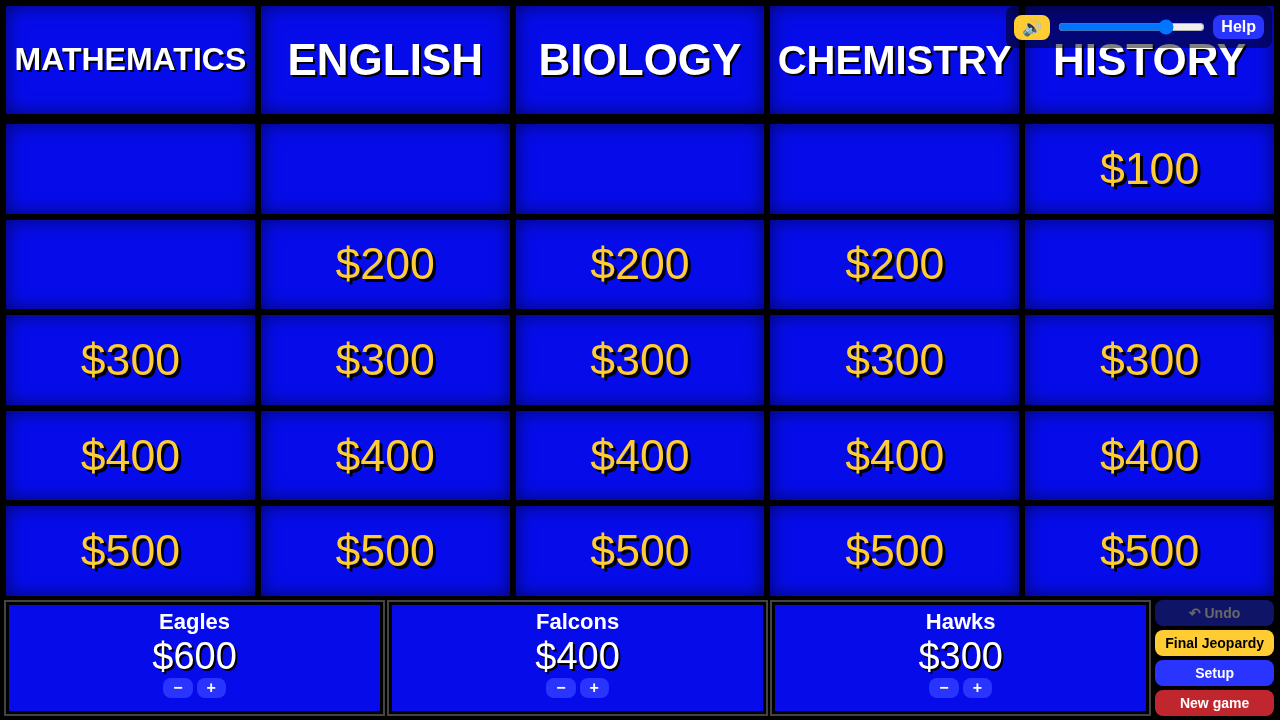
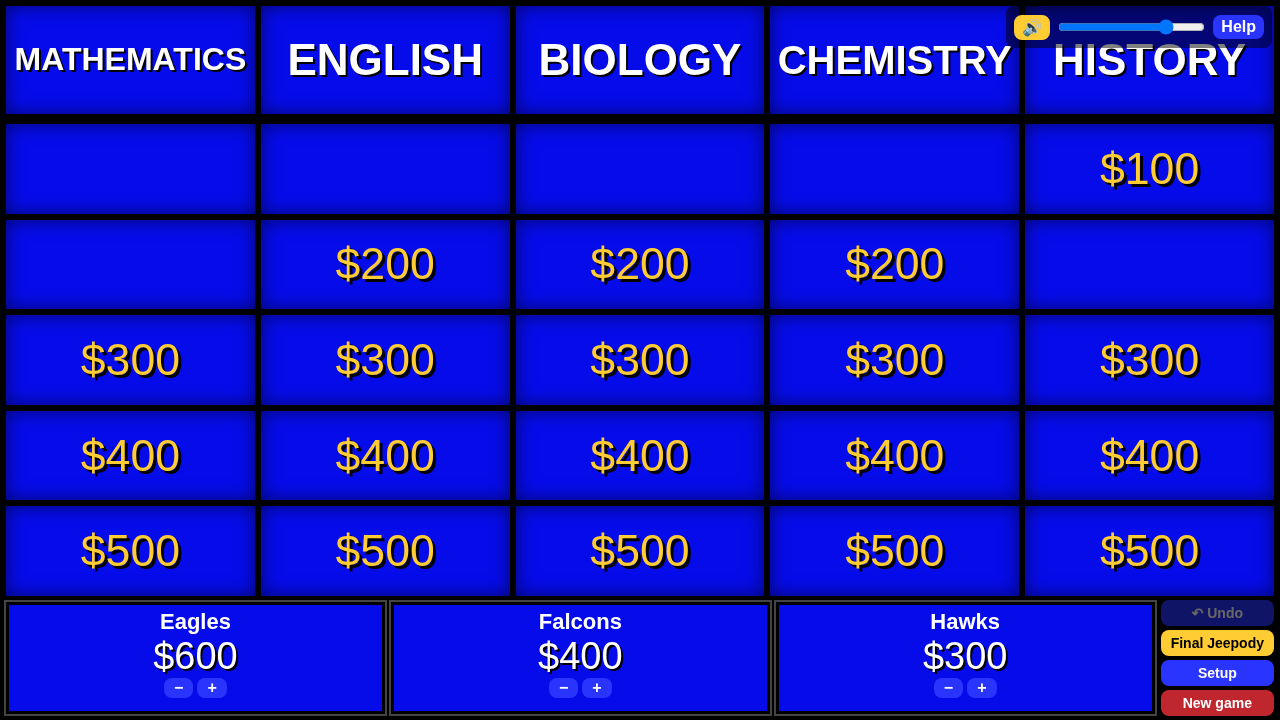
Rename game display text to Jeepody (paths unchanged); refresh screenshots

diff --git a/games/jeopardy/jeopardy-app.html b/games/jeopardy/jeopardy-app.html
@@ -1,6 +1,6 @@
 <!DOCTYPE html>
 <html lang="en"><head><meta charset="utf-8"><meta name="viewport" content="width=device-width,initial-scale=1">
-<title>Jeopardy! Classroom Game</title>
+<title>Jeepody! Classroom Game</title>
 <style>
 :root{--blue:#060CE9;--navy:#020770;--gold:#FFCC33;--clue:Korinna,"ITC Korinna","Georgia","Times New Roman",serif;--head:"Swiss 911","Arial Black","Helvetica Neue",Arial,sans-serif;--money:Impact,"Haettenschweiler","Arial Narrow Bold","Arial Black",sans-serif}
 *{box-sizing:border-box}html,body{margin:0;height:100%;background:#000;color:#fff;font-family:var(--head);overflow:hidden}
@@ -69,7 +69,7 @@ code{font-family:"Courier New",Menlo,Consolas,monospace;font-weight:bold;text-tr
 
 <!-- SETUP -->
 <div id="setup" class="screen">
- <h1>JEOPARDY! <span style="font-size:24px;color:#fff;font-family:var(--head)">classroom game setup</span></h1>
+ <h1>JEEPODY! <span style="font-size:24px;color:#fff;font-family:var(--head)">classroom game setup</span></h1>
  <div class="panel"><h2>1. Teams</h2>
   <div class="row" style="margin-bottom:10px"><button id="addTeam">+ Add team</button><span style="font-family:Arial;font-size:16px">Type a name and press Enter to add a student. Drag a name to another team, or use its dropdown.</span></div>
   <div id="teams"></div>
@@ -107,21 +107,21 @@ code{font-family:"Courier New",Menlo,Consolas,monospace;font-weight:bold;text-tr
 
 <!-- FINAL -->
 <div id="finOv" class="ov">
- <div class="ovtop"><span>FINAL JEOPARDY!</span><span id="timer"></span></div>
+ <div class="ovtop"><span>FINAL JEEPODY!</span><span id="timer"></span></div>
  <div class="cluebox"><div id="finText" class="fit"></div></div>
  <div id="finCtrl"></div>
 </div>
 
 <!-- HELP -->
 <div id="help" class="ov" style="bottom:0;z-index:60;background:rgba(0,0,0,.7)"><div class="inner">
-<h2>How to use this Jeopardy! game</h2>
+<h2>How to use this Jeepody! game</h2>
 <ol>
 <li><b>Open</b> this file in Chrome, Edge, Safari or Firefox on your Mac (double-click it). It needs no internet. In Adobe Connect, share your screen or the browser window. Press <b>F11</b> / <b>Ctrl+Cmd+F</b> for full screen.</li>
 <li><b>Teams:</b> click <i>+ Add team</i>, rename it in the box, type student names and press Enter. Drag a name to another team (or pick a team in its dropdown). ✕ removes a student; <i>Delete team</i> removes the team. Or paste a roster and click <i>Shuffle into teams</i>.</li>
 <li><b>Questions:</b> drop a CSV on the dashed box, click <i>Choose file…</i>, or click <i>Use built-in cross-curricular sample</i>. Then click <b>Start game</b>.</li>
 <li><b>Play:</b> click a dollar amount. Read the clue, click <b>Show Answer</b>, then click <b>✓</b> (adds the value) or <b>✗</b> (subtracts it) for any team. You can mark several teams (one wrong, another steals). Click <b>Back to board</b> (or press Esc); the square goes blank. <i>Nobody / Back to board</i> leaves scores alone.</li>
 <li><b>Daily Double:</b> pick the team and type its wager (up to its score, or up to the top board value if it has less). Only that team is scored.</li>
-<li><b>Final Jeopardy:</b> click <i>Final Jeopardy</i> on the right of the score bar. Reveal the category, type each team's wager, reveal the clue (30-second thinking music and timer), show the answer, tick right/wrong for each team, then <i>Apply wagers</i>.</li>
+<li><b>Final Jeepody:</b> click <i>Final Jeepody</i> on the right of the score bar. Reveal the category, type each team's wager, reveal the clue (30-second thinking music and timer), show the answer, tick right/wrong for each team, then <i>Apply wagers</i>.</li>
 <li><b>Scores:</b> +/− buttons under each team change the score by 100 (click the team name to type an exact score). Hover a team name to see its members. <b>Undo</b> reverses the last award.</li>
 <li><b>Everything is saved</b> in this browser automatically, so a refresh will not lose the game. <i>Setup</i> returns to team setup; <i>New game</i> resets scores and the board (teams stay).</li>
 <li><b>Sound:</b> 🔊 mutes, the slider sets volume. Sounds are original, not the TV show's audio.</li>
@@ -130,7 +130,7 @@ code{font-family:"Courier New",Menlo,Consolas,monospace;font-weight:bold;text-tr
 <p>First row is the header. Columns: <code>category,value,clue,answer,daily_double</code>. Only <code>category</code>, <code>clue</code> and <code>answer</code> are required. Up to 6 categories × 5 clues, in the order they first appear.</p>
 <ul><li><code>value</code> is optional: blank values become 200, 400, 600, 800, 1000 by row order within the category.</li>
 <li><code>daily_double</code>: <code>yes</code> marks a Daily Double (any number of them).</li>
-<li>Final Jeopardy: one row whose category is <code>final</code> or <code>final:Category Name</code>.</li>
+<li>Final Jeepody: one row whose category is <code>final</code> or <code>final:Category Name</code>.</li>
 <li>Put fields with commas, quotes or line breaks in double quotes; write a quote as <code>""</code>. Wrap code in backticks (<code>`df.head()`</code>) to show it in code font.</li></ul>
 <pre>category,value,clue,answer,daily_double
 Mathematics,100,"The interior angles of any triangle add up to this many degrees.","What is 180?",no
@@ -186,7 +186,7 @@ function buildGame(text){const rows=parseCSV(text);if(rows.length<2)throw Error(
  const cats=[],warn=[];let fin=null;
  rows.slice(1).forEach((r,n)=>{const cat=(r[iC]||"").trim(),clue=(r[iQ]||"").trim(),ans=(r[iA]||"").trim();
   if(!cat&&!clue)return;
-  if(/^final(\s*jeopardy)?\s*(:|$)/i.test(cat)){fin={cat:cat.split(":").slice(1).join(":").trim()||"Final Jeopardy",clue,answer:ans};return;}
+  if(/^final(\s*(jeopardy|jeepody))?\s*(:|$)/i.test(cat)){fin={cat:cat.split(":").slice(1).join(":").trim()||"Final Jeepody",clue,answer:ans};return;}
   if(!clue||!ans){warn.push("Row "+(n+2)+" skipped (missing clue or answer).");return;}
   let c=cats.find(x=>x.name===cat);if(!c){if(cats.length>=6){warn.push("Row "+(n+2)+": more than 6 categories, skipped.");return;}c={name:cat,clues:[]};cats.push(c);}
   if(c.clues.length>=5){warn.push("Row "+(n+2)+": "+cat+" already has 5 clues, skipped.");return;}
@@ -217,7 +217,7 @@ function moveMember(fromId,mi,toId){if(fromId===toId)return;const f=S.teams.find
 function setCSV(text,name){try{const g=buildGame(text);S.csvText=text;S.csvName=name;S.loaded=g;save();showCSVInfo();}catch(e){$("csvInfo").innerHTML=`<span class="err">${esc(name)}: ${esc(e.message)}</span>`;}}
 function showCSVInfo(){const g=S.loaded;if(!g){$("csvInfo").textContent="No questions loaded yet.";return;}
  const n=g.cats.reduce((a,c)=>a+c.clues.length,0),dd=g.cats.reduce((a,c)=>a+c.clues.filter(x=>x.dd).length,0);
- $("csvInfo").innerHTML=`<span class="good">✓ ${esc(S.csvName)}: ${g.cats.length} categories (${g.cats.map(c=>esc(c.name)).join(", ")}), ${n} clues, ${dd} Daily Double(s), ${g.final?"Final Jeopardy: "+esc(g.final.cat):"no Final Jeopardy"}.</span>`+(g.warn.length?`<div class="err">${g.warn.map(esc).join("<br>")}</div>`:"");}
+ $("csvInfo").innerHTML=`<span class="good">✓ ${esc(S.csvName)}: ${g.cats.length} categories (${g.cats.map(c=>esc(c.name)).join(", ")}), ${n} clues, ${dd} Daily Double(s), ${g.final?"Final Jeepody: "+esc(g.final.cat):"no Final Jeepody"}.</span>`+(g.warn.length?`<div class="err">${g.warn.map(esc).join("<br>")}</div>`:"");}
 function readFile(f){const r=new FileReader();r.onload=()=>setCSV(r.result,f.name);r.readAsText(f);}
 // ---------- game ----------
 function show(id){document.querySelectorAll(".screen").forEach(s=>s.classList.toggle("on",s.id===id));}
@@ -240,7 +240,7 @@ function renderScores(){const bar=$("scorebar");bar.innerHTML="";
   d.querySelector(".n").onclick=()=>{d.classList.toggle("open");const v=prompt("Set score for "+t.name,t.score);if(v!==null&&!isNaN(parseInt(v)))award(t.id,parseInt(v)-t.score,"manual");};
   bar.appendChild(d);});
  const tl=document.createElement("div");tl.id="tools";
- tl.innerHTML=`<button id="undoB" class="sec" ${S.history.length?"":"disabled"}>↶ Undo</button><button id="finB" ${S.game&&S.game.final&&!S.game.finalDone?"":"disabled"}>Final Jeopardy</button><button id="setupB" class="sec">Setup</button><button id="newB" class="danger">New game</button>`;
+ tl.innerHTML=`<button id="undoB" class="sec" ${S.history.length?"":"disabled"}>↶ Undo</button><button id="finB" ${S.game&&S.game.final&&!S.game.finalDone?"":"disabled"}>Final Jeepody</button><button id="setupB" class="sec">Setup</button><button id="newB" class="danger">New game</button>`;
  bar.appendChild(tl);$("undoB").onclick=undo;$("finB").onclick=()=>finalStep("cat");$("setupB").onclick=()=>{closeOv();openSetup();};$("newB").onclick=startGame;}
 function award(teamId,delta,why){const t=S.teams.find(x=>x.id==teamId);if(!t||!delta)return;t.score+=delta;S.history.push({teamId,delta,why});save();renderScores();if(why==="correct")play("correct");else if(why==="wrong")play("wrong");}
 function undo(){const h=S.history.pop();if(!h)return;const t=S.teams.find(x=>x.id==h.teamId);if(t)t.score-=h.delta;
@@ -314,7 +314,7 @@ const drop=$("drop");["dragover","dragenter"].forEach(ev=>drop.addEventListener(
 drop.addEventListener("dragleave",()=>drop.classList.remove("over"));
 drop.addEventListener("drop",e=>{e.preventDefault();drop.classList.remove("over");const f=e.dataTransfer.files[0];if(f)readFile(f);});
 window.addEventListener("dragover",e=>e.preventDefault());window.addEventListener("drop",e=>e.preventDefault());
-$("useSample").onclick=()=>setCSV(SAMPLE_CSV,"sample-jeopardy-cross-curricular.csv (built-in)");
+$("useSample").onclick=()=>setCSV(SAMPLE_CSV,"Cross-curricular sample (built-in)");
 $("dlSample").onclick=()=>{const a=document.createElement("a");a.href=URL.createObjectURL(new Blob([SAMPLE_CSV],{type:"text/csv"}));a.download="sample-jeopardy-cross-curricular.csv";document.body.appendChild(a);a.click();a.remove();};
 $("start").onclick=startGame;$("resume").onclick=()=>{openBoard(false);if(S.pending){if(S.pending.stage==="dd")showDD();else showClue();}};
 $("helpBtn").onclick=()=>$("help").classList.add("on");$("helpClose").onclick=()=>$("help").classList.remove("on");

diff --git a/games/jeopardy/README.md b/games/jeopardy/README.md
@@ -1,4 +1,4 @@
-# Jeopardy-Style Review Game
+# Jeepody: A Classroom Quiz Review Game
 
 A team quiz game for review days. You load your own questions from a simple spreadsheet file (a **CSV** file, explained below), make teams, and play. Answered squares disappear from the board, and scores update automatically.
 
@@ -57,9 +57,9 @@ When a Daily Double square comes up, pick the team that's playing it and type it
 
 ![Daily Double](screenshots/5-dailydouble.png)
 
-**Final Jeopardy**
+**Final Jeepody**
 
-1. Click **Final Jeopardy** on the right side of the score bar.
+1. Click **Final Jeepody** on the right side of the score bar.
 2. Reveal the category, then type each team's wager.
 3. Reveal the clue. A 30-second timer and thinking music play.
 4. Show the answer and mark each team right or wrong.
@@ -123,7 +123,7 @@ Example as a table:
 
 These rows come from the sample file. The Mendel row is a Daily Double.
 
-The last row is the **Final Jeopardy** clue. Type **final** in the category column, or **final:** followed by a category name (like *final:Science & History*) to show that name to students.
+The last row is the **Final Jeepody** clue. Type **final** in the category column, or **final:** followed by a category name (like *final:Science & History*) to show that name to students.
 
 ### Step by step: build your own game
 
@@ -132,7 +132,7 @@ The last row is the **Final Jeopardy** clue. Type **final** in the category colu
 3. **Leave the first row alone.** It must stay exactly: `category, value, clue, answer, daily_double`.
 4. **Type your categories, clues, and answers** over the sample ones. Keep all the clues for one category together, from easiest (lowest value) to hardest.
 5. **Mark Daily Doubles** by typing **yes** in the daily_double column.
-6. **Add a Final Jeopardy row** (optional) with **final** or **final:Category Name** as the category.
+6. **Add a Final Jeepody row** (optional) with **final** or **final:Category Name** as the category.
 7. **Save it as a CSV file:**
    - **Excel:** **File > Save As**, then in the file type list choose **CSV UTF-8 (Comma delimited) (\*.csv)**, then **Save**. If Excel warns that some features will be lost, click **Yes** / **Keep current format**.
    - **Google Sheets:** **File > Download > Comma-separated values (.csv)**. The file goes to your Downloads folder.
@@ -143,7 +143,7 @@ The last row is the **Final Jeopardy** clue. Type **final** in the category colu
 
 - Keep the header row exactly as it is.
 - The board holds up to **6 categories** with up to **5 clues** each. Extra ones are skipped.
-- Use **final** or **final:Name** for Final Jeopardy (one row).
+- Use **final** or **final:Name** for Final Jeepody (one row).
 - Type **yes** for a Daily Double. You can have more than one.
 - Commas inside a clue are fine when you use a spreadsheet app. It handles them for you when saving. (If you type in Notepad or TextEdit, put the clue in double quotes, like `"Hello, world"`.)
 - Text between backticks (\`like this\`) shows up as code, handy for programming classes.
@@ -178,7 +178,7 @@ Open the game in its own browser tab, then share **that tab** (or the browser wi
 
 ## Disclaimer
 
-This is an independent educational tool. It is not affiliated with, endorsed by, or sponsored by *Jeopardy!*, Jeopardy Productions, Inc., or Sony Pictures Television. *Jeopardy!* is a registered trademark of its owner.
+Jeepody is an independent educational tool inspired by TV quiz shows. It is not affiliated with, endorsed by, or sponsored by *Jeopardy!*, Jeopardy Productions, Inc., or Sony Pictures Television. *Jeopardy!* is a registered trademark of its owner.
 
 ## License
 

diff --git a/README.md b/README.md
@@ -22,7 +22,7 @@ You're reading this on **GitHub**. GitHub is a website where people store and sh
 
 | Game | What it is | Instructions |
 |------|------------|--------------|
-| **Jeopardy-style review game** | A team quiz game. You make teams, load your own questions, and keep score. | [Open the Jeopardy instructions](games/jeopardy/README.md) |
+| **Jeepody (quiz review game)** | A team quiz game. You make teams, load your own questions, and keep score. | [Open the Jeepody instructions](games/jeopardy/README.md) |
 
 More games will be added over time. Each game lives in its own folder inside the **games** folder, and each one has its own instructions page.
 
@@ -30,7 +30,7 @@ More games will be added over time. Each game lives in its own folder inside the
 
 ## Fastest way: play online (nothing to download)
 
-Just click this link to open the Jeopardy game in your browser:
+Just click this link to open the Jeepody game in your browser:
 
 **https://logosteach.github.io/educational-games/games/jeopardy/jeopardy-app.html**
 
@@ -44,8 +44,9 @@ Pick **Option A** if you just want one game. Pick **Option B** if you want every
 
 ### Option A: download just one file
 
-1. Go to the game's folder. For Jeopardy, click [games/jeopardy](games/jeopardy).
-2. Click the game file. For Jeopardy, it's **jeopardy-app.html**.
+1. Go to the game's folder. For Jeepody, click [games/jeopardy](games/jeopardy).
+2. Click the game file. For Jeepody, it's **jeopardy-app.html**.
+   (The file and folder names still say "jeopardy". That is normal, and it is the right file.)
 3. A page opens showing the file. Near the top right, click the **Download raw file** button. It looks like a small arrow pointing down into a tray.
 4. The file is saved to your computer, usually in your **Downloads** folder.
 
